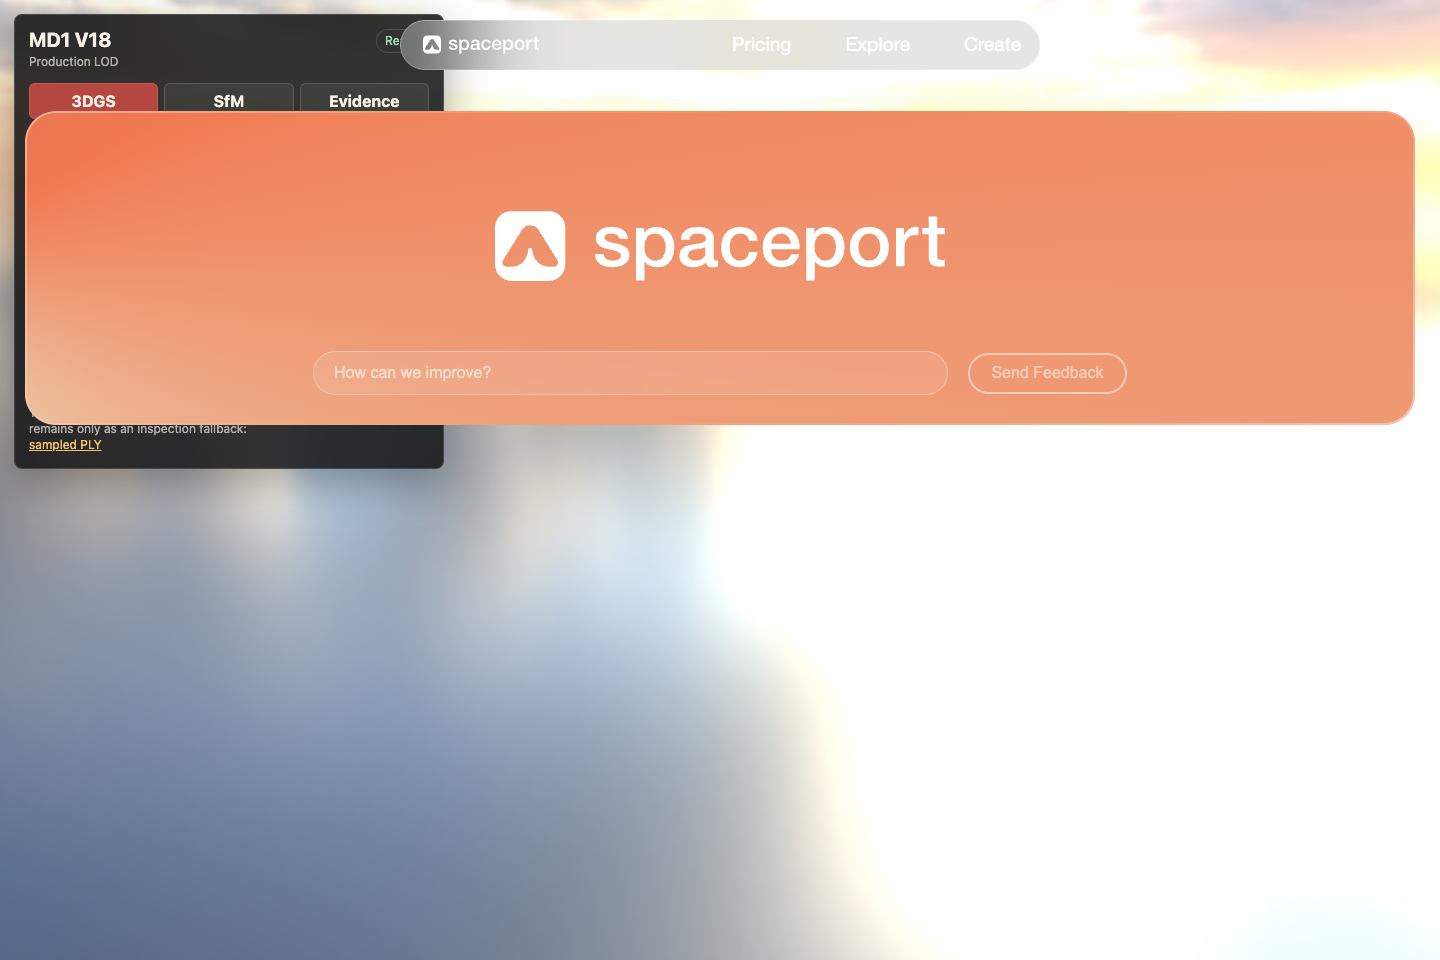
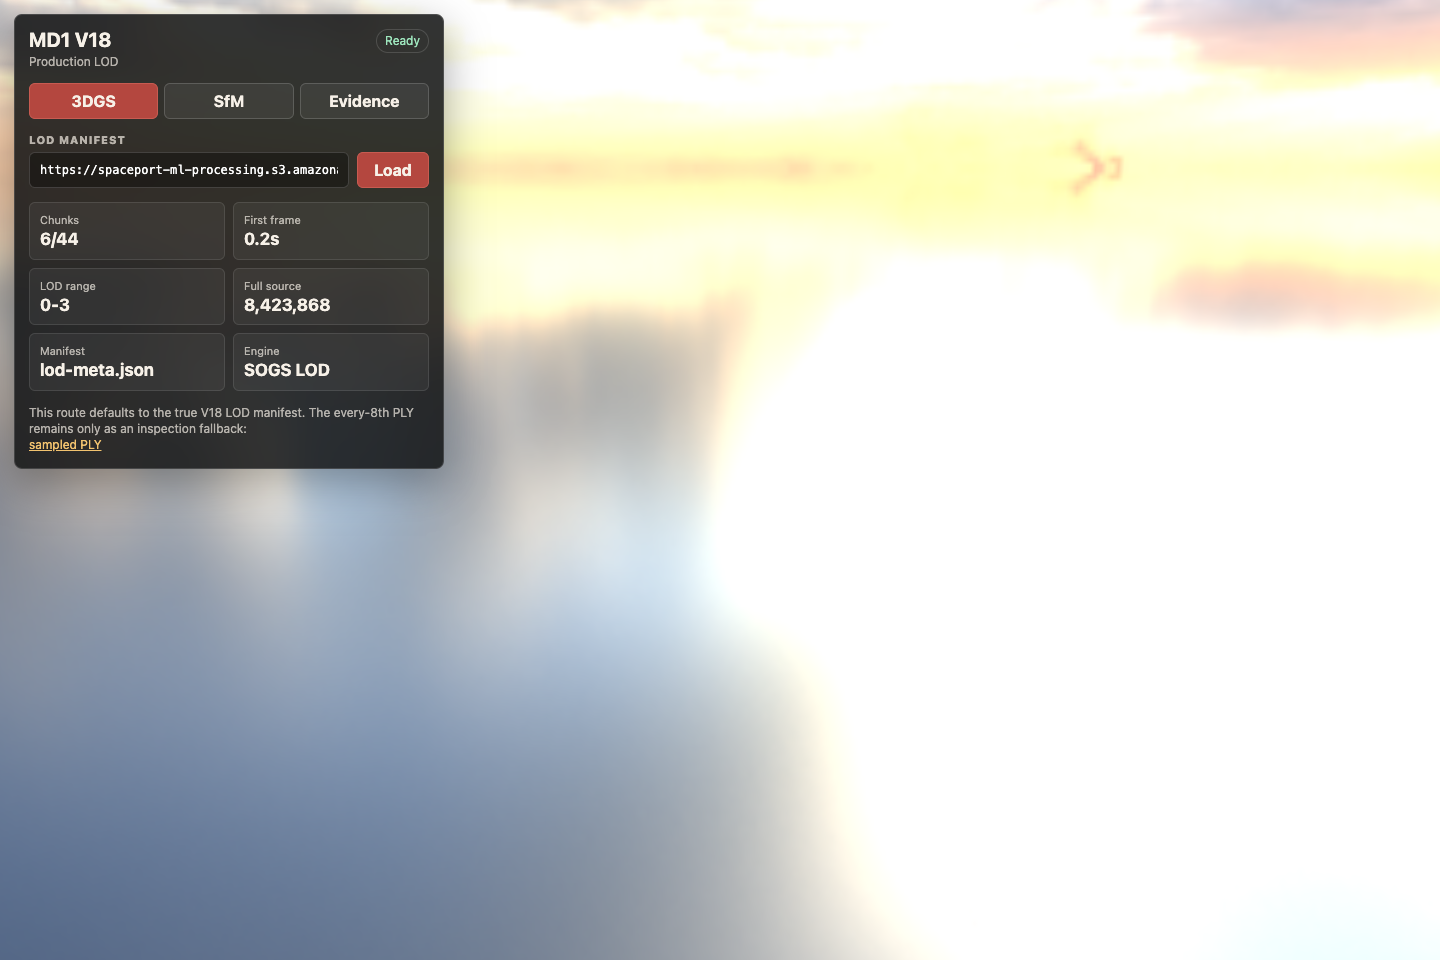
fix: make md1 viewer standalone

diff --git a/web/components/SiteChrome.tsx b/web/components/SiteChrome.tsx
@@ -8,7 +8,11 @@ function isStandalonePath(pathname: string): boolean {
     pathname === "/sogs-viewer" ||
     pathname.startsWith("/sogs-viewer/") ||
     pathname === "/sogs-migrated-viewer" ||
-    pathname.startsWith("/sogs-migrated-viewer/")
+    pathname.startsWith("/sogs-migrated-viewer/") ||
+    pathname === "/md1-viewer" ||
+    pathname.startsWith("/md1-viewer/") ||
+    pathname === "/sfm-output-viewer" ||
+    pathname.startsWith("/sfm-output-viewer/")
   );
 }
 

diff --git a/logs/md1-baseline-e2e/STATE.md b/logs/md1-baseline-e2e/STATE.md
@@ -1,6 +1,6 @@
 # MD1 Baseline E2E State
 
-updated: 2026-05-14T08:24:23-0600
+updated: 2026-05-14T08:43:29-0600
 branch: agent-113647-md1-baseline-e2e
 base: origin/development @ b2b451ae6dc46a25c7547162b6f8d037437f2950
 repo: HansenHomeAI/v0-spaceport-website
@@ -641,3 +641,18 @@ Produce a development-based MD1 baseline with:
 - No-spend regression check:
   - `python3 -m unittest tests.unit.test_sogs_supersplat_bundle` -> `OK`
   - output: `logs/md1-baseline-e2e/no-spend-unittest-test_sogs_supersplat_bundle-20260514T142423Z.txt`
+
+### 2026-05-14T08:43:29-0600
+
+- Viewer visual gate found a real issue:
+  - Fresh public smoke initially passed telemetry, but manual screenshot inspection showed `/md1-viewer` rendered the global header/footer feedback panel over the splat.
+  - This made the old viewer smoke too permissive: it verified pixels and telemetry, but did not verify that the viewer surface was actually unobstructed.
+- Fix applied:
+  - `web/components/SiteChrome.tsx`: treat `/md1-viewer` and `/sfm-output-viewer` as standalone routes, matching the existing SOGS viewer behavior.
+  - `web/scripts/test-md1-production-viewer.mjs`: fail if `/md1-viewer` renders `header`, `footer`, or `#footer-stats`.
+- Local verification:
+  - `npm run build` -> passed (existing lint warnings only).
+  - `MD1_VIEWER_URL=http://127.0.0.1:3032 node scripts/test-md1-production-viewer.mjs` -> passed with the stricter chrome assertions.
+  - local desktop first frame `213.2ms`, mobile first frame `199.3ms`.
+  - updated screenshots: `logs/md1-production-viewer-desktop.png`, `logs/md1-production-viewer-mobile.png` now show the MD1 panel only, no global header/footer feedback overlay.
+  - one-off Playwright check for `http://127.0.0.1:3032/sfm-output-viewer` -> `{"header":0,"footer":0,"feedback":0,"canvas":1}`.
